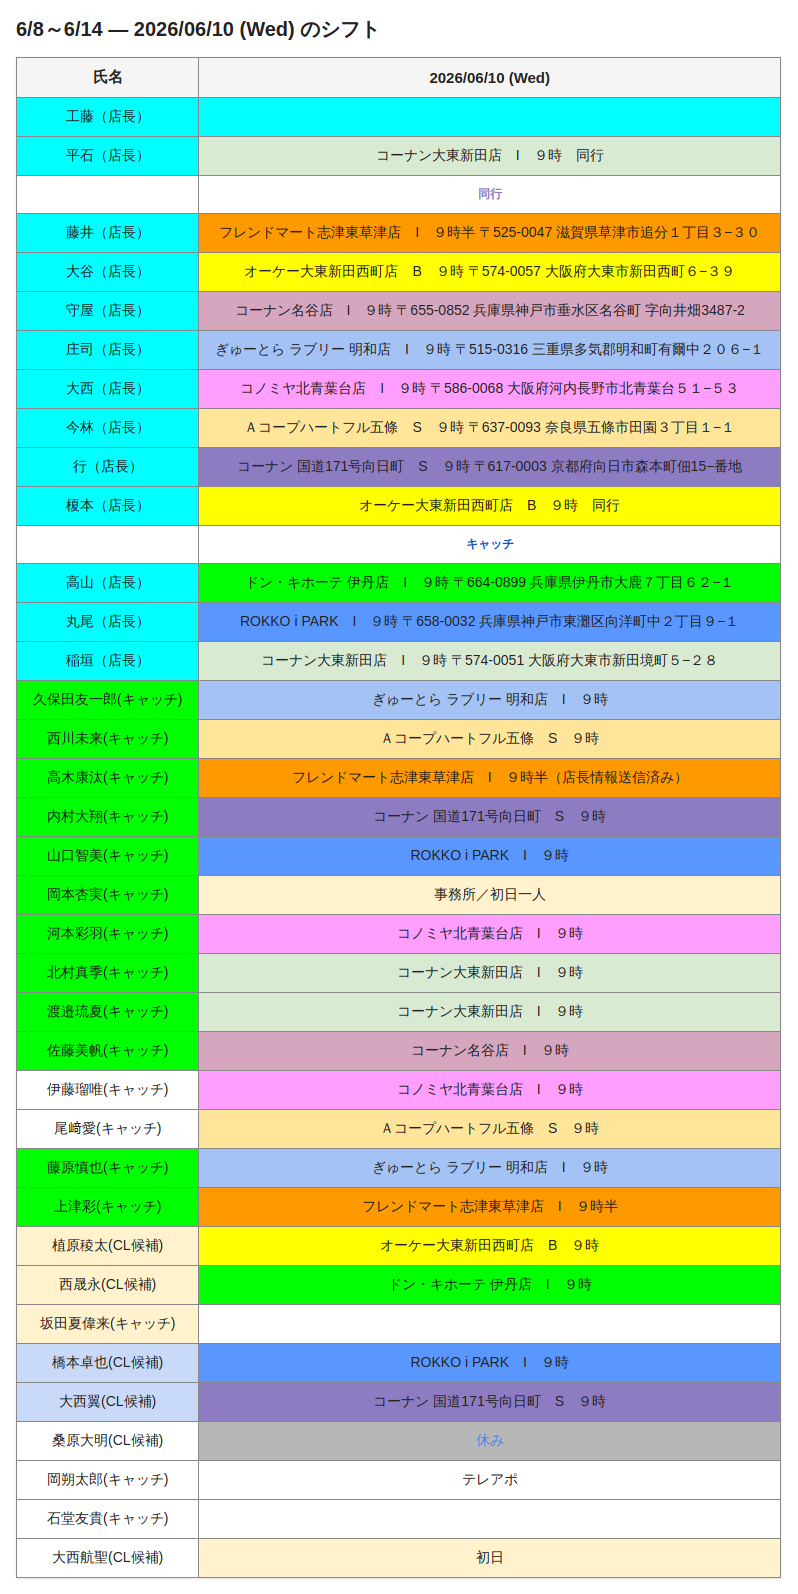
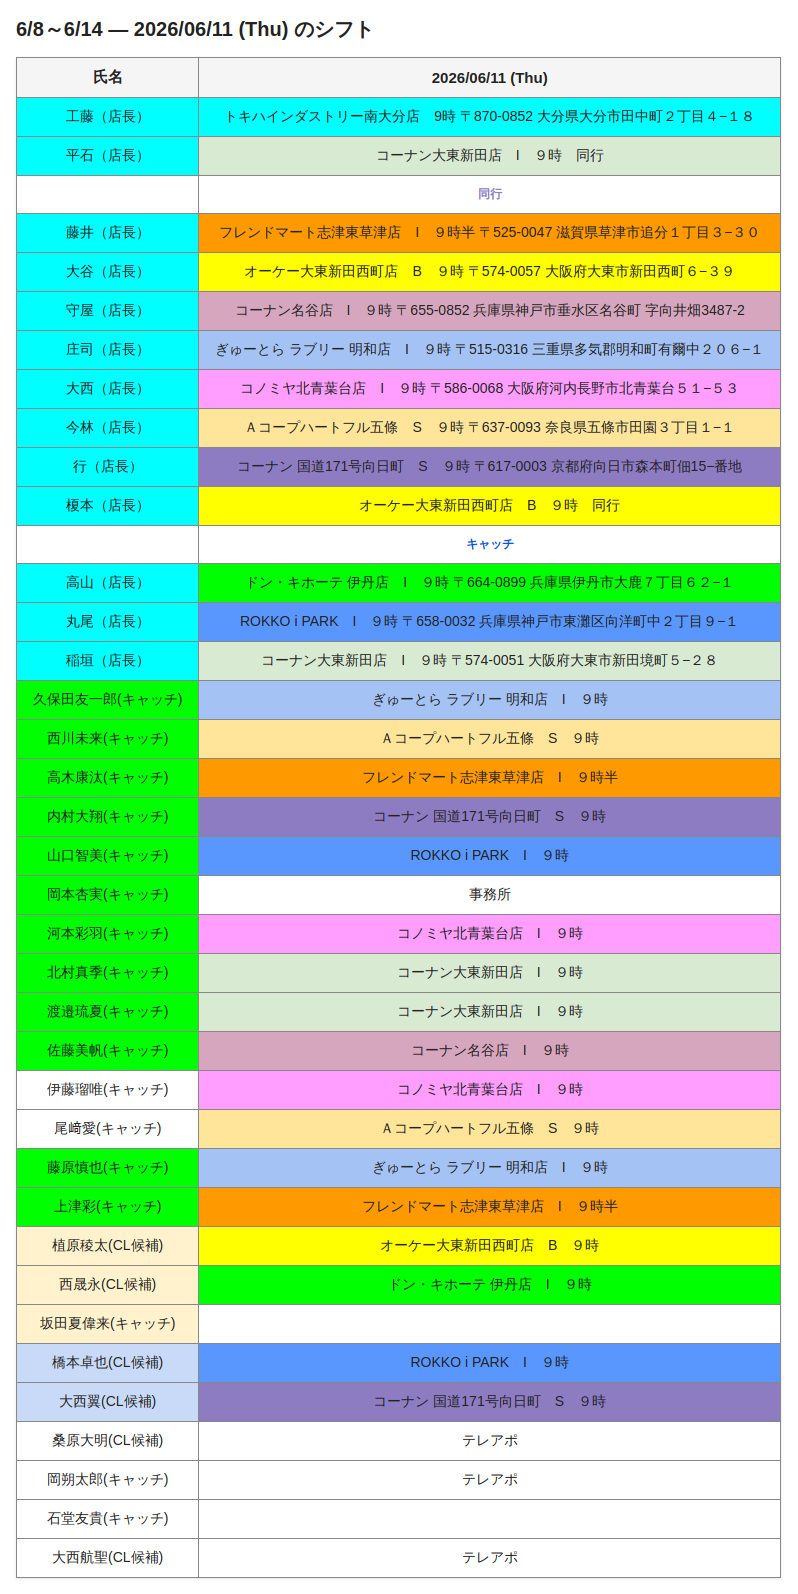
chore: update screenshots [skip ci]

diff --git a/screenshots/latest_kanto.html b/screenshots/latest_kanto.html
@@ -10,42 +10,87 @@ th,td{border:1px solid #888;padding:10px 16px;text-align:center;min-width:90px;}
 th{background:#f5f5f5;font-weight:bold;}
 </style></head><body>
 <div class='container'>
-<h2>【アクア】6/8～6/ 14 — 2026/06/10 (Wed) のシフト</h2>
+<h2>週_6月8日-6月14日 — 2026/06/11 (Thu) のシフト</h2>
 <table>
-<tr><th>氏名</th><th>2026/06/10 (Wed)</th></tr>
-<tr><td style='background-color:rgb(255,0,0);color:rgb(255,255,255);font-size:14px'>佐藤（店長）</td><td style='background-color:rgb(255,0,0);color:rgb(255,255,255);font-size:14px'>スーパーセンタートライアル鹿沼　C　９時スタート
-〒322-0026 栃木県鹿沼市茂呂923番7</td></tr>
-<tr><td style='background-color:rgb(0,0,255);color:rgb(255,255,255);font-size:14px'>長岡（店長）</td><td style='background-color:rgb(0,0,255);color:rgb(255,255,255);font-size:14px'>ヨークフーズちはら台店　N　９時スタート
-〒290-0142 千葉県市原市ちはら台南２丁目３２−２</td></tr>
-<tr><td style='background-color:rgb(56,118,29);color:rgb(255,255,255);font-size:14px'>奥村（店長）</td><td style='background-color:rgb(56,118,29);color:rgb(255,255,255);font-size:14px'>西友千代田ショッピングセンター　N　９時スタート
-〒586-0009 大阪府河内長野市木戸西町２丁目１−２０</td></tr>
-<tr><td style='background-color:rgb(255,153,0);font-size:14px'>越智（店長）</td><td style='background-color:rgb(255,153,0);font-size:14px'>マックスバリュ南陽　C　９時スタート
-〒999-2211 山形県南陽市赤湯２８８５</td></tr>
-<tr><td style='background-color:rgb(255,0,255);font-size:14px'>田口（店長） </td><td style='background-color:rgb(255,0,255);color:rgb(255,255,255);font-size:14px'>ヨークマート八千代台　C　９時スタート
-〒276-0031 千葉県八千代市八千代台北１０丁目２４−１</td></tr>
-<tr><td style='background-color:rgb(153,0,255);color:rgb(255,255,255);font-size:14px'>石川（店長） </td><td style='background-color:rgb(153,0,255);color:rgb(255,255,255);font-size:14px'>Aコープ沼部　C　１０時スタート
-〒989-4308 宮城県大崎市田尻沼部要害前１７４</td></tr>
-<tr><td style='background-color:rgb(241,194,50);font-size:14px'>工藤（店長） </td><td style='background-color:rgb(241,194,50);font-size:14px'>ラコマート上安松　N　９時スタート
-〒359-0025 埼玉県所沢市上安松１０３４−１</td></tr>
-<tr><td style='background-color:rgb(183,225,205);font-size:14px'>丸田(キャッチ)</td><td style='background-color:rgb(153,0,255);color:rgb(255,255,255);font-size:14px'>Aコープ沼部　C　１０時スタート
-〒989-4308 宮城県大崎市田尻沼部要害前１７４</td></tr>
-<tr><td style='background-color:rgb(183,225,205);font-size:14px'>小野(キャッチ)</td><td style='background-color:rgb(255,0,0);color:rgb(255,255,255);font-size:14px'>スーパーセンタートライアル鹿沼　C　９時スタート
-〒322-0026 栃木県鹿沼市茂呂923番7</td></tr>
-<tr><td style='background-color:rgb(183,225,205);font-size:14px'>佐藤彩(キャッチ)</td><td style='background-color:rgb(255,0,0);color:rgb(255,255,255);font-size:14px'>スーパーセンタートライアル鹿沼　C　９時スタート
-〒322-0026 栃木県鹿沼市茂呂923番7</td></tr>
-<tr><td style='background-color:rgb(183,225,205);font-size:14px'>江藤(キャッチ)</td><td style='background-color:rgb(255,0,255);color:rgb(255,255,255);font-size:14px'>ヨークマート八千代台　C　９時スタート
-〒276-0031 千葉県八千代市八千代台北１０丁目２４−１</td></tr>
-<tr><td style='background-color:rgb(183,225,205);font-size:14px'>中島(キャッチ)</td><td style='background-color:rgb(0,0,255);color:rgb(255,255,255);font-size:14px'>ヨークフーズちはら台店　N　９時スタート
-〒290-0142 千葉県市原市ちはら台南２丁目３２−２</td></tr>
-<tr><td style='background-color:rgb(183,225,205);font-size:14px'>奥村(キャッチ)</td><td style='background-color:rgb(255,255,255);font-size:14px'></td></tr>
-<tr><td style='background-color:rgb(183,225,205);font-size:14px'>土切(キャッチ)</td><td style='background-color:rgb(56,118,29);color:rgb(255,255,255);font-size:14px'>西友千代田ショッピングセンター　N　９時スタート
-〒586-0009 大阪府河内長野市木戸西町２丁目１−２０</td></tr>
-<tr><td style='background-color:rgb(183,225,205);font-size:14px'>黒光(キャッチ)</td><td style='background-color:rgb(255,153,0);font-size:14px'>マックスバリュ南陽　C　９時スタート
-〒999-2211 山形県南陽市赤湯２８８５</td></tr>
-<tr><td style='background-color:rgb(183,225,205);font-size:14px'>都築(キャッチ)</td><td style='background-color:rgb(0,0,255);color:rgb(255,255,255);font-size:14px'>ヨークフーズちはら台店　N　９時スタート
-〒290-0142 千葉県市原市ちはら台南２丁目３２−２</td></tr>
-<tr><td style='background-color:rgb(183,225,205);font-size:14px'>左近(キャッチ)</td><td style='background-color:rgb(241,194,50);font-size:14px'>ラコマート上安松　N　９時スタート
-〒359-0025 埼玉県所沢市上安松１０３４−１</td></tr>
-<tr><td style='background-color:rgb(183,225,205);font-size:14px'>品川(キャッチ)</td><td style='background-color:rgb(56,118,29);color:rgb(255,255,255);font-size:14px'>西友千代田ショッピングセンター　N　９時スタート
-〒586-0009 大阪府河内長野市木戸西町２丁目１−２０</td></tr>
+<tr><th>氏名</th><th>2026/06/11 (Thu)</th></tr>
+<tr><td style='background-color:rgb(255,153,0);font-size:14px'>大塚（店長）</td><td style='background-color:rgb(255,242,204);color:rgb(255,0,0);font-weight:bold;font-size:14px'>水道橋研修</td></tr>
+<tr><td style='background-color:rgb(255,0,255);font-size:14px'>西本（店長）</td><td style='background-color:rgb(183,183,183);color:rgb(74,134,232);font-size:14px'>休み</td></tr>
+<tr><td style='background-color:rgb(255,0,255);font-size:14px'>小嶋（店長）</td><td style='background-color:rgb(153,0,255);color:rgb(255,255,255);font-size:14px'>オーケー妙蓮寺店　B　９時スタート
+〒222-0011 神奈川県横浜市港北区菊名１丁目９−３３</td></tr>
+<tr><td style='background-color:rgb(255,0,255);font-size:14px'>楠美（店長） </td><td style='background-color:rgb(0,0,255);color:rgb(255,255,255);font-size:14px'>オーケー小茂根店　B　9時スタート
+〒173-0037 東京都板橋区小茂根１丁目３２−２１</td></tr>
+<tr><td style='background-color:rgb(255,0,255);font-size:14px'>高井（店長） </td><td style='background-color:rgb(127,96,0);color:rgb(255,255,255);font-size:14px'>&quot;AコープJAファーマーズ 朝日町店　Ｂ　9時半スタート
+〒371-0014 群馬県前橋市朝日町１丁目３８−２１&quot;</td></tr>
+<tr><td style='background-color:rgb(255,0,255);font-size:14px'>岡村秀星（店長） </td><td style='background-color:rgb(255,242,204);color:rgb(255,0,0);font-weight:bold;font-size:14px'>水道橋研修</td></tr>
+<tr><td style='background-color:rgb(255,0,255);font-size:14px'>工藤雅也（店長）</td><td style='background-color:rgb(0,255,0);font-size:14px'>オーケー伊勢原店　B　9時スタート
+〒259-1132 神奈川県伊勢原市桜台２丁目２８−３６</td></tr>
+<tr><td style='background-color:rgb(0,255,255);font-size:14px'>岡村（店長）</td><td style='background-color:rgb(0,255,255);font-size:14px'>生鮮市場TOP 籠原　S　１０時スタート
+〒360-0842 埼玉県熊谷市新堀新田５２３</td></tr>
+<tr><td style='background-color:rgb(0,255,255);font-size:14px'>山田（店長） </td><td style='background-color:rgb(255,229,153);font-size:14px'>オーケー 登戸店　B　９時スタート
+〒214-0014 神奈川県川崎市多摩区登戸２５３５−１</td></tr>
+<tr><td style='background-color:rgb(0,255,255);font-size:14px'>吉田（店長）</td><td style='background-color:rgb(39,78,19);color:rgb(255,255,255);font-size:14px'>オーケー下石神井店　B　９時スタート
+〒177-0042 東京都練馬区下石神井４丁目３０−１２</td></tr>
+<tr><td style='background-color:rgb(0,255,255);font-size:14px'>古川（店長）</td><td style='background-color:rgb(255,242,204);color:rgb(255,0,0);font-weight:bold;font-size:14px'>水道橋研修</td></tr>
+<tr><td style='background-color:rgb(0,255,255);font-size:14px'>横瀬（店長）</td><td style='background-color:rgb(255,255,0);font-size:14px'>オーケー戸塚上矢部店　B　9時スタート
+〒245-0053 神奈川県横浜市戸塚区上矢部町１８８０−１</td></tr>
+<tr><td style='background-color:rgb(180,167,214);font-size:14px'>高塚（店長）</td><td style='background-color:rgb(180,167,214);font-size:14px'>フードスクエアカスミ横芝光店　V　９時スタート
+〒289-1732 千葉県山武郡横芝光町横芝２１１３</td></tr>
+<tr><td style='background-color:rgb(234,153,153);font-size:14px'>米須清晃（店長）</td><td style='background-color:rgb(244,204,204);font-size:14px'>オータニ雀宮店　Ｂ　9時半スタート
+〒321-0142 栃木県宇都宮市南町１２−１</td></tr>
+<tr><td style='background-color:rgb(234,153,153);font-size:14px'>田口広(CL候補)フェーズ4</td><td style='background-color:rgb(255,255,0);color:rgb(255,0,0);font-weight:bold;font-size:14px'>出る</td></tr>
+<tr><td style='background-color:#ffffff'></td><td style='background-color:rgb(255,255,255);font-size:10px'>研修になるかも</td></tr>
+<tr><td style='background-color:rgb(234,153,153);font-size:14px'>武藏海翔(CL候補)フェーズ4</td><td style='background-color:rgb(255,255,0);color:rgb(255,0,0);font-weight:bold;font-size:14px'>出る</td></tr>
+<tr><td style='background-color:#ffffff'></td><td style='background-color:rgb(255,255,255);font-size:10px'>研修になるかも</td></tr>
+<tr><td style='background-color:rgb(0,255,0);font-size:14px'>関崎太央(キャッチ)リーダー</td><td style='background-color:rgb(255,242,204);color:rgb(255,0,0);font-weight:bold;font-size:14px'>水道橋研修</td></tr>
+<tr><td style='background-color:rgb(0,255,0);font-size:14px'>池邉杏梨(キャッチ)リーダー</td><td style='background-color:rgb(0,255,0);font-size:14px'>オーケー伊勢原店9時スタート(工藤CL)
+〒259-1132 神奈川県伊勢原市桜台２丁目２８−３６</td></tr>
+<tr><td style='background-color:rgb(0,255,0);font-size:14px'>中村響子(キャッチ)リーダー</td><td style='background-color:rgb(180,167,214);font-size:14px'>フードスクエアカスミ横芝光店９時スタート(高塚CL)
+〒289-1732 千葉県山武郡横芝光町横芝２１１３</td></tr>
+<tr><td style='background-color:rgb(0,255,0);font-size:14px'>佐川明佳(キャッチ)リーダー</td><td style='background-color:rgb(255,255,255);font-size:14px'>トキハインダストリー南大分店　9時スタート
+〒870-0852 大分県大分市田中町２丁目４−１８</td></tr>
+<tr><td style='background-color:#ffffff'></td><td style='background-color:rgb(255,255,255);color:rgb(255,0,0);font-weight:bold;font-size:14px'>九州工藤店舗</td></tr>
+<tr><td style='background-color:rgb(0,255,0);font-size:14px'>戸﨑龍(キャッチ)リーダー</td><td style='background-color:rgb(39,78,19);color:rgb(255,255,255);font-size:14px'>オーケー下石神井店９時スタート(吉田CL)
+〒177-0042 東京都練馬区下石神井４丁目３０−１２</td></tr>
+<tr><td style='background-color:rgb(183,225,205);font-size:14px'>加藤美雪(キャッチ)フェーズ3</td><td style='background-color:rgb(0,255,255);font-size:14px'>生鮮市場TOP 籠原１０時スタート(岡村CL)
+〒360-0842 埼玉県熊谷市新堀新田５２３</td></tr>
+<tr><td style='background-color:rgb(183,225,205);font-size:14px'>佐藤優斗(キャッチ)フェーズ3</td><td style='background-color:rgb(127,96,0);color:rgb(255,255,255);font-size:14px'>&quot;AコープJAファーマーズ 朝日町店　Ｂ　9時半スタート
+〒371-0014 群馬県前橋市朝日町１丁目３８−２１&quot;</td></tr>
+<tr><td style='background-color:rgb(183,225,205);font-size:14px'>薄井和明(キャッチ)フェーズ3</td><td style='background-color:rgb(244,204,204);font-size:14px'>オータニ雀宮店9時半スタート(米須CL)
+〒321-0142 栃木県宇都宮市南町１２−１</td></tr>
+<tr><td style='background-color:rgb(183,225,205);font-size:14px'>大木亜希乃(キャッチ)フェーズ3</td><td style='background-color:rgb(255,229,153);font-size:14px'>オーケー 登戸店９時スタート(山田CL)
+〒214-0014 神奈川県川崎市多摩区登戸２５３５−１</td></tr>
+<tr><td style='background-color:rgb(183,225,205);font-size:14px'>川上寛太(キャッチ)フェーズ3</td><td style='background-color:rgb(127,96,0);color:rgb(255,255,255);font-size:14px'>&quot;AコープJAファーマーズ 朝日町店　Ｂ　9時半スタート
+〒371-0014 群馬県前橋市朝日町１丁目３８−２１&quot;</td></tr>
+<tr><td style='background-color:rgb(183,225,205);font-size:14px'>高橋疾風(キャッチ)フェーズ3</td><td style='background-color:rgb(153,0,255);color:rgb(255,255,255);font-size:14px'>オーケー妙蓮寺店９時スタート(小嶋CL)
+〒222-0011 神奈川県横浜市港北区菊名１丁目９−３３</td></tr>
+<tr><td style='background-color:rgb(183,225,205);font-size:14px'>宮下裕大(キャッチ)フェーズ3</td><td style='background-color:rgb(183,183,183);color:rgb(74,134,232);font-size:14px'>休み</td></tr>
+<tr><td style='background-color:rgb(183,225,205);font-size:14px'>本間駿介(キャッチ)フェーズ3</td><td style='background-color:rgb(0,255,255);font-size:14px'>生鮮市場TOP 籠原１０時スタート(岡村CL)
+〒360-0842 埼玉県熊谷市新堀新田５２３</td></tr>
+<tr><td style='background-color:rgb(183,225,205);font-size:14px'>矢田部萌(キャッチ)フェーズ3</td><td style='background-color:rgb(244,204,204);font-size:14px'>オータニ雀宮店9時半スタート(米須CL)
+〒321-0142 栃木県宇都宮市南町１２−１</td></tr>
+<tr><td style='background-color:rgb(183,225,205);font-size:14px'>室岡峻平(キャッチ)フェーズ3</td><td style='background-color:rgb(255,229,153);font-size:14px'>オーケー 登戸店９時スタート(山田CL)
+〒214-0014 神奈川県川崎市多摩区登戸２５３５−１</td></tr>
+<tr><td style='background-color:rgb(183,225,205);font-size:14px'>藤井祥平(キャッチ)フェーズ3</td><td style='background-color:rgb(255,255,255);font-size:14px'>トキハインダストリー南大分店　9時スタート
+〒870-0852 大分県大分市田中町２丁目４−１８</td></tr>
+<tr><td style='background-color:#ffffff'></td><td style='background-color:rgb(255,255,255);font-size:10px'>九州工藤店舗</td></tr>
+<tr><td style='background-color:rgb(183,225,205);font-size:14px'>中川侑馬(キャッチ)フェーズ3</td><td style='background-color:rgb(0,0,255);color:rgb(255,255,255);font-size:14px'>オーケー小茂根店9時スタート(楠美CL)
+〒173-0037 東京都板橋区小茂根１丁目３２−２１</td></tr>
+<tr><td style='background-color:rgb(183,225,205);font-size:14px'>門脇愛(キャッチ)フェーズ3</td><td style='background-color:rgb(255,255,0);color:rgb(255,0,0);font-weight:bold;font-size:14px'>出る</td></tr>
+<tr><td style='background-color:rgb(183,225,205);font-size:14px'>千田華菜子(キャッチ)フェーズ3</td><td style='background-color:rgb(39,78,19);color:rgb(255,255,255);font-size:14px'>オーケー下石神井店９時スタート(吉田CL)
+〒177-0042 東京都練馬区下石神井４丁目３０−１２</td></tr>
+<tr><td style='background-color:rgb(255,242,204);font-size:14px'>髙田啓祐(キャッチ)フェーズ2</td><td style='background-color:rgb(0,0,255);color:rgb(255,255,255);font-size:14px'>オーケー小茂根店9時スタート(楠美CL)
+〒173-0037 東京都板橋区小茂根１丁目３２−２１</td></tr>
+<tr><td style='background-color:rgb(255,242,204);font-size:14px'>山本拓真(キャッチ)フェーズ2</td><td style='background-color:rgb(153,0,255);color:rgb(255,255,255);font-size:14px'>オーケー妙蓮寺店９時スタート(小嶋CL)
+〒222-0011 神奈川県横浜市港北区菊名１丁目９−３３</td></tr>
+<tr><td style='background-color:rgb(255,242,204);font-size:14px'>小西輝(キャッチ)フェーズ2</td><td style='background-color:rgb(180,167,214);font-size:14px'>フードスクエアカスミ横芝光店９時スタート(高塚CL)
+〒289-1732 千葉県山武郡横芝光町横芝２１１３</td></tr>
+<tr><td style='background-color:rgb(255,242,204);font-size:14px'>小幡直樹(キャッチ)フェーズ2</td><td style='background-color:rgb(0,0,255);color:rgb(255,255,255);font-size:14px'>オーケー小茂根店9時スタート(楠美CL)
+〒173-0037 東京都板橋区小茂根１丁目３２−２１</td></tr>
+<tr><td style='background-color:rgb(234,153,153);font-size:14px'>田邊怜司(キャッチ)フェーズ1</td><td style='background-color:rgb(244,204,204);font-size:14px'>オータニ雀宮店9時半スタート(米須CL)
+〒321-0142 栃木県宇都宮市南町１２−１</td></tr>
+<tr><td style='background-color:rgb(234,153,153);font-size:14px'>太田天(CL候補)フェーズ1</td><td style='background-color:rgb(183,183,183);color:rgb(74,134,232);font-size:14px'>休み</td></tr>
+<tr><td style='background-color:rgb(234,153,153);font-size:14px'>佐藤裕棟(CL候補)フェーズ1</td><td style='background-color:rgb(0,255,255);font-size:14px'>生鮮市場TOP 籠原１０時スタート(岡村CL)
+〒360-0842 埼玉県熊谷市新堀新田５２３</td></tr>
+<tr><td style='background-color:rgb(234,153,153);font-size:14px'>牛田啓次(CL候補)フェーズ1</td><td style='background-color:rgb(39,78,19);color:rgb(255,255,255);font-size:14px'>オーケー下石神井店９時スタート(吉田CL)
+〒177-0042 東京都練馬区下石神井４丁目３０−１２</td></tr>
 </table></div></body></html>

diff --git a/screenshots/latest_kansai.html b/screenshots/latest_kansai.html
@@ -10,10 +10,11 @@ th,td{border:1px solid #888;padding:10px 16px;text-align:center;min-width:90px;}
 th{background:#f5f5f5;font-weight:bold;}
 </style></head><body>
 <div class='container'>
-<h2>6/8～6/14 — 2026/06/10 (Wed) のシフト</h2>
+<h2>6/8～6/14 — 2026/06/11 (Thu) のシフト</h2>
 <table>
-<tr><th>氏名</th><th>2026/06/10 (Wed)</th></tr>
-<tr><td style='background-color:rgb(0,255,255);font-size:14px'>工藤（店長）</td><td style='background-color:rgb(0,255,255);font-size:14px'></td></tr>
+<tr><th>氏名</th><th>2026/06/11 (Thu)</th></tr>
+<tr><td style='background-color:rgb(0,255,255);font-size:14px'>工藤（店長）</td><td style='background-color:rgb(0,255,255);font-size:14px'>トキハインダストリー南大分店　9時
+〒870-0852 大分県大分市田中町２丁目４−１８</td></tr>
 <tr><td style='background-color:rgb(0,255,255);font-size:14px'>平石（店長）</td><td style='background-color:rgb(217,234,211);font-size:14px'>コーナン大東新田店　I　９時　同行</td></tr>
 <tr><td style='background-color:#ffffff'></td><td style='background-color:rgb(255,255,255);color:rgb(142,124,195);font-weight:bold;font-size:12px'>同行</td></tr>
 <tr><td style='background-color:rgb(0,255,255);font-size:14px'>藤井（店長）</td><td style='background-color:rgb(255,153,0);font-size:14px'>フレンドマート志津東草津店　I　９時半
@@ -40,10 +41,10 @@ th{background:#f5f5f5;font-weight:bold;}
 〒574-0051 大阪府大東市新田境町５−２８</td></tr>
 <tr><td style='background-color:rgb(0,255,0);font-size:14px'>久保田友一郎(キャッチ)</td><td style='background-color:rgb(164,194,244);font-size:14px'>ぎゅーとら ラブリー 明和店　I　９時</td></tr>
 <tr><td style='background-color:rgb(0,255,0);font-size:14px'>西川未来(キャッチ)</td><td style='background-color:rgb(255,229,153);font-size:14px'>Ａコープハートフル五條　S　９時</td></tr>
-<tr><td style='background-color:rgb(0,255,0);font-size:14px'>高木康汰(キャッチ)</td><td style='background-color:rgb(255,153,0);font-size:14px'>フレンドマート志津東草津店　I　９時半（店長情報送信済み）</td></tr>
+<tr><td style='background-color:rgb(0,255,0);font-size:14px'>高木康汰(キャッチ)</td><td style='background-color:rgb(255,153,0);font-size:14px'>フレンドマート志津東草津店　I　９時半</td></tr>
 <tr><td style='background-color:rgb(0,255,0);font-size:14px'>内村大翔(キャッチ)</td><td style='background-color:rgb(142,124,195);font-size:14px'>コーナン 国道171号向日町　S　９時</td></tr>
 <tr><td style='background-color:rgb(0,255,0);font-size:14px'>山口智美(キャッチ)</td><td style='background-color:rgb(89,151,255);font-size:14px'>ROKKO i PARK　I　９時</td></tr>
-<tr><td style='background-color:rgb(0,255,0);font-size:14px'>岡本杏実(キャッチ)</td><td style='background-color:rgb(255,242,204);font-size:14px'>事務所／初日一人</td></tr>
+<tr><td style='background-color:rgb(0,255,0);font-size:14px'>岡本杏実(キャッチ)</td><td style='background-color:rgb(255,255,255);font-size:14px'>事務所</td></tr>
 <tr><td style='background-color:rgb(0,255,0);font-size:14px'>河本彩羽(キャッチ)</td><td style='background-color:rgb(255,158,255);font-size:14px'>コノミヤ北青葉台店　I　９時</td></tr>
 <tr><td style='background-color:rgb(0,255,0);font-size:14px'>北村真季(キャッチ)</td><td style='background-color:rgb(217,234,211);font-size:14px'>コーナン大東新田店　I　９時</td></tr>
 <tr><td style='background-color:rgb(0,255,0);font-size:14px'>渡邉琉夏(キャッチ)</td><td style='background-color:rgb(217,234,211);font-size:14px'>コーナン大東新田店　I　９時</td></tr>
@@ -57,8 +58,8 @@ th{background:#f5f5f5;font-weight:bold;}
 <tr><td style='background-color:rgb(255,242,204);font-size:14px'>坂田夏偉来(キャッチ)</td><td style='background-color:rgb(255,255,255);font-size:14px'></td></tr>
 <tr><td style='background-color:rgb(201,218,248);font-size:14px'>橋本卓也(CL候補)</td><td style='background-color:rgb(89,151,255);font-size:14px'>ROKKO i PARK　I　９時</td></tr>
 <tr><td style='background-color:rgb(201,218,248);font-size:14px'>大西翼(CL候補)</td><td style='background-color:rgb(142,124,195);font-size:14px'>コーナン 国道171号向日町　S　９時</td></tr>
-<tr><td style='background-color:rgb(255,255,255);font-size:14px'>桑原大明(CL候補)</td><td style='background-color:rgb(183,183,183);color:rgb(74,134,232);font-size:14px'>休み</td></tr>
+<tr><td style='background-color:rgb(255,255,255);font-size:14px'>桑原大明(CL候補)</td><td style='background-color:rgb(255,255,255);font-size:14px'>テレアポ</td></tr>
 <tr><td style='background-color:rgb(255,255,255);font-size:14px'>岡朔太郎(キャッチ)</td><td style='background-color:rgb(255,255,255);font-size:14px'>テレアポ</td></tr>
 <tr><td style='background-color:rgb(255,255,255);font-size:14px'>石堂友貴(キャッチ)</td><td style='background-color:rgb(255,255,255);font-size:14px'></td></tr>
-<tr><td style='background-color:rgb(255,255,255);font-size:14px'>大西航聖(CL候補)</td><td style='background-color:rgb(255,242,204);font-size:14px'>初日</td></tr>
+<tr><td style='background-color:rgb(255,255,255);font-size:14px'>大西航聖(CL候補)</td><td style='background-color:rgb(255,255,255);font-size:14px'>テレアポ</td></tr>
 </table></div></body></html>

diff --git a/screenshots/latest_kyushu.html b/screenshots/latest_kyushu.html
@@ -10,9 +10,9 @@ th,td{border:1px solid #888;padding:10px 16px;text-align:center;min-width:90px;}
 th{background:#f5f5f5;font-weight:bold;}
 </style></head><body>
 <div class='container'>
-<h2>6/8～6/14  — 2026/06/10 (Wed) のシフト</h2>
+<h2>6/8～6/14  — 2026/06/11 (Thu) のシフト</h2>
 <table>
-<tr><th>氏名</th><th>2026/06/10 (Wed)</th></tr>
+<tr><th>氏名</th><th>2026/06/11 (Thu)</th></tr>
 <tr><td style='background-color:rgb(0,255,255);font-size:14px'>工藤（店長）</td><td style='background-color:rgb(0,255,255);font-size:14px'>トキハインダストリー南大分店　9時スタート
 〒870-0852 大分県大分市田中町２丁目４−１８</td></tr>
 <tr><td style='background-color:rgb(0,255,255);font-size:14px'>庄司（店長）</td><td style='background-color:rgb(164,194,244);font-size:14px'></td></tr>
